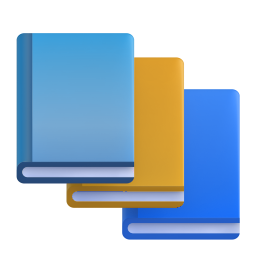
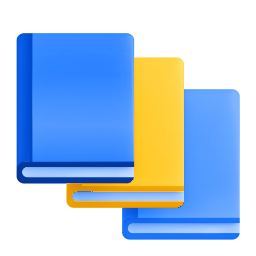
Ikon menu: pewarnaan ulang ke satu tangga biru + kuning yang jenuh dan seragam (tidak pucat, tanpa warna sisa)

diff --git a/scripts/warnai-ikon.py b/scripts/warnai-ikon.py
@@ -1,15 +1,29 @@
-"""Mewarnai ulang ikon 3D menu ke palet biru + kuning (docs/desain-siswa.md).
+"""Mewarnai ulang ikon 3D menu ke SATU palet biru + kuning (docs/desain-siswa.md).
 
-Bentuk, bayangan, dan kilap tetap dari gambar asli; hanya warnanya (hue) yang dipetakan:
-warna hangat (merah, jingga, kuning, merah muda) -> kuning, warna dingin (hijau, biru, ungu) -> biru.
-Abu-abu dan putih dibiarkan. Jalankan dari akar proyek: python3 scripts/warnai-ikon.py
+Bentuk, bayangan, dan kilap tetap dari gambar asli. Tiap piksel berwarna dipetakan ke tangga warna yang
+TETAP (satu biru, satu kuning) menurut kecerahannya, sehingga semua ikon memakai biru dan kuning yang
+persis sama, jenuh, dan tidak pucat. Kilap (jenuh rendah) tetap memutih; abu-abu/putih dibersihkan
+menjadi putih kebiruan. Jalankan dari akar proyek: python3 scripts/warnai-ikon.py
 """
 import colorsys
 from PIL import Image
 
-KUNING = 46 / 360
-BIRU = 214 / 360
-SUMBER = {"memo": "memo", "bullseye": "bullseye", "books": "books", "trophy": "trophy"}
+def hex_ke_rgb(h):
+    h = h.lstrip("#")
+    return tuple(int(h[i:i + 2], 16) for i in (0, 2, 4))
+
+# (posisi 0..1 menurut kecerahan, warna). Biru tengah = biru logo Tera (#0060F0).
+BIRU = [(0.0, "#07276F"), (0.45, "#0050D8"), (0.7, "#1F7AFF"), (1.0, "#7DB4FF")]
+KUNING = [(0.0, "#A85A00"), (0.45, "#F2A100"), (0.7, "#FFC926"), (1.0, "#FFE680")]
+
+def tangga(stops, t):
+    t = max(0.0, min(1.0, t))
+    for (a, ca), (b, cb) in zip(stops, stops[1:]):
+        if t <= b:
+            f = (t - a) / (b - a) if b > a else 0
+            ra, rb = hex_ke_rgb(ca), hex_ke_rgb(cb)
+            return tuple(ra[i] + (rb[i] - ra[i]) * f for i in range(3))
+    return hex_ke_rgb(stops[-1][1])
 
 def warnai(src, dst):
     im = Image.open(src).convert("RGBA")
@@ -20,20 +34,27 @@ def warnai(src, dst):
             if a == 0:
                 continue
             h, s, v = colorsys.rgb_to_hsv(r / 255, g / 255, b / 255)
-            if s < 0.14:  # abu-abu / putih: biarkan
+            if s < 0.12:
+                # Putih/abu-abu: dijernihkan jadi putih kebiruan, bayangan tipis ikut dingin.
+                if v > 0.8:
+                    v2 = min(1.0, v * 1.04 + 0.03)
+                    px[x, y] = (round(v2 * 255 * 0.97), round(v2 * 255 * 0.985), round(v2 * 255), a)
+                else:
+                    # Abu-abu gelap (garis teks, ujung pensil): dibiru-kan supaya ikut palet.
+                    bi = tangga(BIRU, (v - 0.2) / 0.8)
+                    px[x, y] = tuple(round(r * 0 + (v * 255) * 0.3 + bi[i] * 0.7) for i, r in enumerate((r, g, b))) + (a,)
                 continue
-            hangat = h < 70 / 360 or h > 300 / 360
-            target = KUNING if hangat else BIRU
-            # Sedikit variasi hue asli dipertahankan supaya kilapnya tidak mendatar.
-            pusat = 30 / 360 if hangat else 180 / 360
-            selisih = ((h - pusat + 0.5) % 1) - 0.5 if hangat else h - pusat
-            h2 = (target + selisih * 0.12) % 1
-            # Biru dibuat sedikit lebih jenuh agar sepadan dengan kuning.
-            s2 = min(1, s * (1.0 if hangat else 1.15))
-            r2, g2, b2 = colorsys.hsv_to_rgb(h2, s2, v)
-            px[x, y] = (round(r2 * 255), round(g2 * 255), round(b2 * 255), a)
+            hangat = h < 75 / 360 or h > 295 / 360
+            # Kecerahan asli (0.35..1.0) dibentangkan ke seluruh tangga.
+            t = (v - 0.35) / 0.65
+            warna = tangga(KUNING if hangat else BIRU, t)
+            # Kilap (jenuh rendah) tetap memutih; badan (jenuh tinggi) memakai warna tangga penuh.
+            sn = min(1.0, s / 0.5) ** 0.8
+            putih = (255, 255, 255)
+            mix = tuple(putih[i] + (warna[i] - putih[i]) * sn for i in range(3))
+            px[x, y] = (round(mix[0]), round(mix[1]), round(mix[2]), a)
     im.save(dst, optimize=True)
 
-for nama, berkas in SUMBER.items():
-    warnai(f"public/ikon/{berkas}.png", f"public/ikon/{nama}-bk.png")
+for nama in ["memo", "bullseye", "books", "trophy"]:
+    warnai(f"public/ikon/{nama}.png", f"public/ikon/{nama}-bk.png")
     print("ok", nama)
